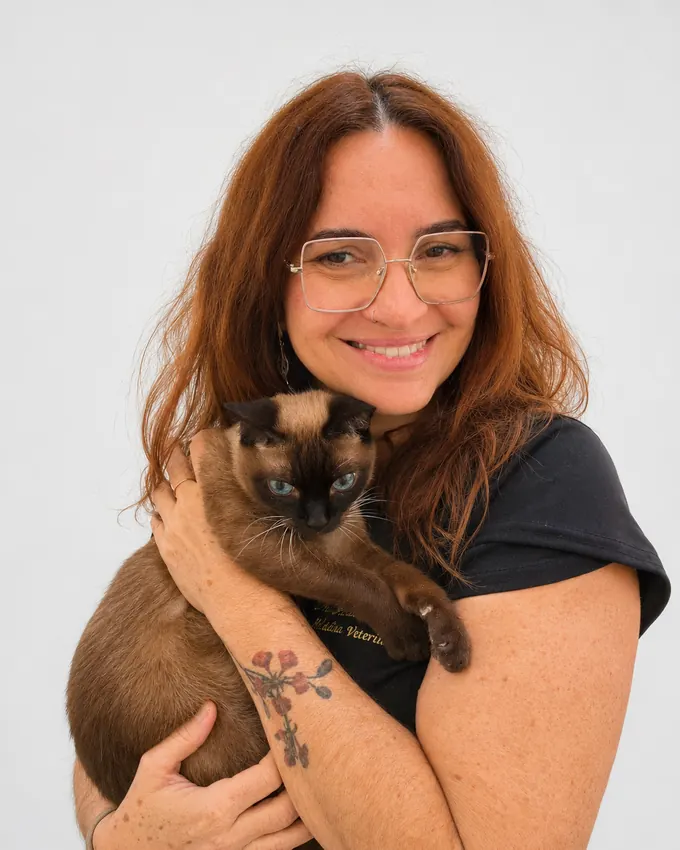
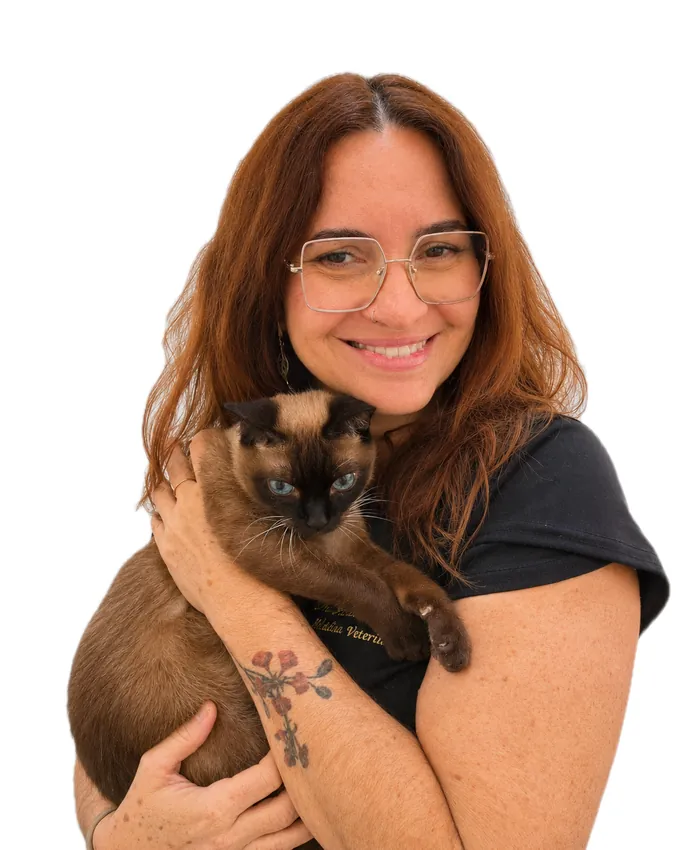
Retrato da Dra. Adriana com fundo branco puro, como Camila e Lucas

diff --git a/site/content/site.ts b/site/content/site.ts
@@ -567,8 +567,9 @@ export const equipe = {
     },
     {
       /* Entrou na equipe em 31/10/2026 (JM), com a acupuntura. CRMV enviado
-         pela clínica. Retrato: foto dela com o gato, fundo trocado no
-         ChatGPT pelo cinza claro das outras (original em _fontes/equipe/). */
+         pela clínica. Retrato: foto dela com o gato, fundo limpo no ChatGPT e
+         recortado pra branco puro com scripts/recorta-fundo.swift, como a
+         Camila e o Lucas (JM: "exatamente branco"; original em _fontes/equipe/). */
       nome: "Dra. Adriana Lyra",
       detalhe: "Acupuntura veterinária",
       papel: "Médica Veterinária",
